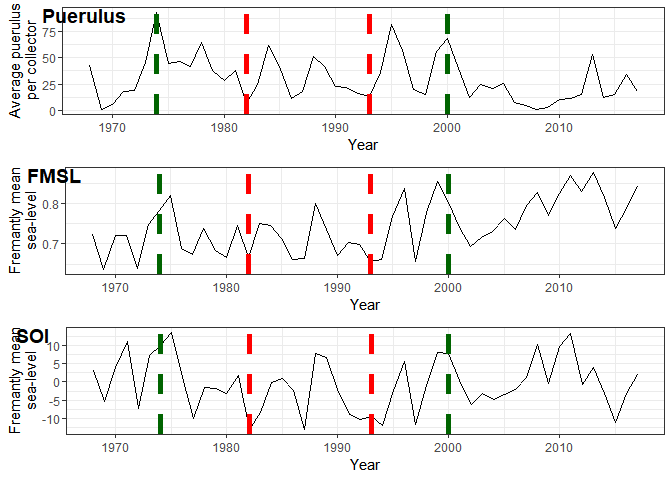
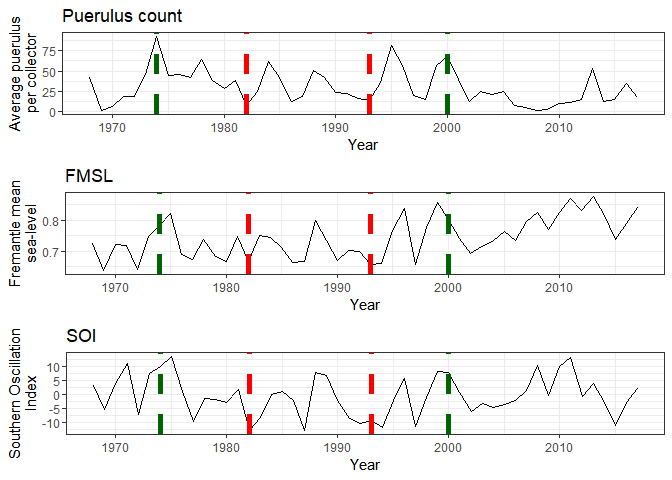
update

diff --git a/Puerulus-settlement.md b/Puerulus-settlement.md
@@ -1,18 +1,17 @@
-Oceeanographic drivers of lobster Puerulus settlement
+Oceanographic drivers of Western Rock Lobster puerulus settlement
 ================
 Tim Langlois and Matt Navarro
 14/04/2020
 
 In this exercise we are going to explore how oceanography drives
-recruitment of Western rock lobster.
+recruitment of Western Rock Lobster.
 
-Before we being lets load the packages we will be using today, and
-download our data:
+Before we being lets load the packages we will use today.
 
 ``` r
-library(RCurl)
-library(ggplot2)
-library(cowplot)
+library(RCurl) # to read data from GitHub
+library(ggplot2) #to plot data
+library(cowplot) #to create multiplots
 ```
 
     ## 
@@ -28,8 +27,18 @@ library(cowplot)
     ## ********************************************************
 
 ``` r
-library(magrittr)
-library(dplyr)
+library(tidyr) #to tidy data
+```
+
+    ## 
+    ## Attaching package: 'tidyr'
+
+    ## The following object is masked from 'package:RCurl':
+    ## 
+    ##     complete
+
+``` r
+library(dplyr) #to plot data
 ```
 
     ## 
@@ -43,23 +52,29 @@ library(dplyr)
     ## 
     ##     intersect, setdiff, setequal, union
 
+From the lecture you will recall that after spawning, Western Rock
+Lobster larvae (called phyllosoma) are carried by currents between 400
+and 1,500 km offshore. After a while the larvae metamorphose into
+transparent mini lobster known as pueruli. The puerulus then swim back
+to the coastline and settle onto shallow reefs.
+
+Today we will be playing with data from puerulus collectors. These
+collectors are placed in the ocean at eigth key locations and capture
+puerulus as they are swimming back towards the shallow reefs.
+
+</br>
+
+![*Collector*](figures/collector.png)
+
+</br>
+
+### Data description
+
+Lets have a quick look at our data.
+
 ``` r
 dat <- read.csv(text=getURL("https://raw.githubusercontent.com/UWA-SCIE2204-Marine-Systems/Biological-oceanography/master/Data/Data_for_puerulus.csv"))
 dat<-dat[1:50,]  #removes NA column
-```
-
-From the lecture you will recall that after spawning, lobster larvae
-(called phyllosoma) are carried by currents between 400 and 1,500 km
-offshore. After several months the larvae metamorphose into transparent
-mini lobster known as Pueruli (plural is puerulus). The Puerulus then
-swim back to the coastline and settle onto shallow reefs.
-
-Today we will be playing with data from Puerulus collectors. These
-collectors are placed in the ocean at eigth key locations and capture
-puerulus as they are swim back towards the shallow reefs. Lets have a
-quick look at our data.
-
-``` r
 head(dat)
 ```
 
@@ -71,39 +86,37 @@ head(dat)
     ## 5 1972 18.468601 0.6390000 -7.350000
     ## 6 1973 45.085088 0.7482857  7.283333
 
-The Puerulus column is the average annual number of puerulus captured in
-the collectors. This has been shown to be a reliable indicator of
-recruitment, and has been linked strongly to the expected cath in 4
-years time.
+The puerulus column is the average annual number of puerulus captured in
+the collectors. This is a reliable indicator of recruitment, and has
+been linked strongly to the expected catch in 4 years time.
 
 Given the extended period of time that lobster larvae and pueruli spend
-offshore, we would expect that the number of settling peruli would
+offshore, we would expect that the number of settling puerulus would
 depend on the oceanographic conditions in a given year. Across the WA
 coastline, the Southern flowing Leeuwin current is the dominating
-process. To explore how the Leeuwin current affects Puerulus counts we
-have two proxies for the Leeuwin current strength.
+process. To explore how the Leeuwin current affects puerulus counts we
+have two proxies for the Leeuwin current strength:
 
-FMSL is the Fremantle mean sea level. As the Leeuwin current pushes warm
-water down the WA coast, it actually increases the sea-level off
-Fremantle. In years with a strong Leeuwin current the sea-level is
-higher.
+  - FMSL is the Fremantle mean sea level. As the Leeuwin current pushes
+    warm water down the WA coast it actually increases the sea-level off
+    Fremantle. In years with a strong Leeuwin current the sea-level is
+    higher.
+  - SOI is the Southern Oscilattion Index. Technically the SOI is the
+    difference in the surface air pressure between Tahiti and Darwin.
+    All you need to know is that when the SOI is higher, the Leeuwin
+    current is stronger.
 
-SOI is the Southern Oscilattion Index. Technically the SOI is the
-difference in the surface air pressure between Tahiti and Darwin. All
-you need to know is that when the SOI is higher, the Leeuwin current is
-stronger.
+### Plot puerulus counts
 
-## Plot puerulus counts and Leeuwin current proxies
-
-Make a time series plot of Puerulus counts. Note that we are using the
-ggplot functions we used in the Marine Reserves lab. We are also saving
-the plot inside R as “puerulus\_plot” as we will use this plot again in
-a minute.
+Make a time series plot of puerulus counts. Note that we are using the
+ggplot functions we used in the marine reserves lab. We are also saving
+the plot inside R as “puerulus\_plot” as we will use this plot again.
 
 ``` r
 puerulus_plot<-ggplot(dat, aes(x = Year, y = Puerulus))+ 
   geom_line()+
   ylab("Average puerulus\nper collector")+
+  ggtitle("Puerulus count")+
   theme_bw()
 
 puerulus_plot
@@ -115,6 +128,8 @@ Notice how the data puerulus counts go up and down. There is actually a
 lot of variability. On high years puerulus counts can be as high as 90,
 whilst in low years it can be less than 1.
 
+### Create a composite plot
+
 Lets now try and create a composite plot. A composite plot combines
 several plots and is an easy way to start to explore relationships in
 your data. To do this we are going to make three individual plots using
@@ -124,17 +139,19 @@ next section of code we create a FMSL plot and a SOI index plot and then
 create the multi-plot using plot\_grid.
 
 ``` r
-fmsl_plot<- ggplot(dat, aes(x = Year, y = FMSL))+ 
+fmsl_plot<- ggplot(dat, aes(x = Year, y = FMSL))+ #create the fmsl plot
   geom_line()+
-  ylab("Fremantly mean\nsea-level")+
+  ylab("Fremantle mean\nsea-level")+
+  ggtitle("FMSL")+
   theme_bw()
 
-soi_plot<-ggplot(dat, aes(x = Year, y = SOI))+ 
+soi_plot<-ggplot(dat, aes(x = Year, y = SOI))+ #create the soi plot
   geom_line()+
-  ylab("Fremantly mean\nsea-level")+
+  ylab("Southern Oscillation\nIndex")+
+  ggtitle("SOI")+
   theme_bw()
 
-multi_plot<-plot_grid(puerulus_plot, fmsl_plot, soi_plot, ncol = 1, labels = c("Puerulus", "FMSL", "SOI"))
+multi_plot<-plot_grid(puerulus_plot, fmsl_plot, soi_plot, ncol = 1) #create the composite plot
 multi_plot
 ```
 
@@ -143,13 +160,13 @@ multi_plot
 Have a close look…can you see anything interesting in the patterns you
 see across the 3 variables? ……
 
-…..In general it seems that when fmsl and soi are higher, the Puerulus
+…..In general it seems that when fmsl and soi are higher, the puerulus
 count is higher. In other words in years with a strong Leeuwin current
-more Puerulus settle on to shallow reefs.
+more puerulus settle onto shallow reefs.
 
 To make the pattern more obvious we can add some vertical lines to our
 plots. We will use green to indicate years with abnormally high puerulus
-counts, and red to indicate years with abnormally low Puerulus counts.
+counts, and red to indicate years with abnormally low puerulus counts.
 
 ``` r
 multi_plot<-plot_grid(puerulus_plot + 
@@ -164,19 +181,22 @@ multi_plot<-plot_grid(puerulus_plot +
                       geom_vline(xintercept = c(1974, 2000), color = "darkgreen", linetype="dashed", size = 2)+
                       geom_vline(xintercept = c(1982, 1993), color = "red", linetype="dashed", size = 2),
                       
-                      ncol = 1, labels = c("Puerulus", "FMSL", "SOI"))
+                      ncol = 1)
 multi_plot
 ```
 
 ![](Puerulus-settlement_files/figure-gfm/unnamed-chunk-5-1.png)<!-- -->
 
-Can you see the pattern now? That is quite interesting right? You now
-have some evidence that recruitment for the western rock lobster is
-linked to the strength of the Leeuwin current. If you are a manager of a
-lobster fishery this might be bad news…you have no ability to control
-how strong the Leeuwin current is. This limits your ability to manage
-the fishery, and suggests you need to incorporate the strength of the
-Leeuwin current into your management decisions.
+Can you see the pattern now? That is quite interesting right?
+
+You now have some evidence that recruitment for the western rock lobster
+is linked to the strength of the Leeuwin current. If you are a manager
+of a lobster fishery this might be bad news…you have no ability to
+control how strong the Leeuwin current is. This limits your ability to
+manage the fishery, and suggests you need to incorporate the strength of
+the Leeuwin current into your management decisions.
+
+### Calculate correlation coefficients
 
 Lets dig a little deeper.
 
@@ -184,28 +204,31 @@ The cor function returns the correlation coefficient between two
 variables.
 
 ``` r
-cor(dat$Puerulus, dat$FMSL)
+cor(dat$Puerulus, dat$FMSL) #Check FMSL correlation coefficient
 ```
 
     ## [1] 0.2260079
 
 ``` r
-cor(dat$Puerulus, dat$SOI)
+cor(dat$Puerulus, dat$SOI) #Check SOI correlation coefficient
 ```
 
     ## [1] 0.3155193
 
-The correlation coefficients are positive between Puerulus and FMSL and
-Puerulus and SOI. This confirms what we obsrerved in the multiplot -
-when the FMSL and SOI are higher Puerulus counts are higher.
+The correlation coefficients are positive between puerulus and FMSL and
+puerulus and SOI. This confirms what we obsrerved in the multiplot -
+when the FMSL and SOI are higher puerulus counts are higher.
 
-But, the correlation coefficients are not huge. Between Puerulus and
-FMSL we get 0.23 and between Puerulus and SOI we get 0.32. For a high
+But, the correlation coefficients are not huge. Between puerulus and
+FMSL we get 0.23 and between puerulus and SOI we get 0.32. For a high
 degree of correlation we would expect something more than 0.5.
 
 So what else might be going on?
 
-To investigate lets take another look at our multiplot
+\#\#\#Investigating relatively low correlations
+
+To investigate why we are getting relatively low correlation
+coefficients lets take another look at our multiplot
 
 ``` r
 multi_plot
@@ -215,15 +238,12 @@ multi_plot
 
 Have a closer look at the relationship in recent years, since 2005.
 
-There seems to be something weird going on…from 2007 until 2014 Puerulus
-counts were low, but FMSL and SOI were both high. For some reason,
+There seems to be something weird going on…from 2007 until 2014 puerulus
+counts were low, but FMSL and SOI were both high.
 
-However, in recent years (2007-2014) Puerulus counts were quite low
-despite FMSL and SOI being high. This is a bit confusing.
-
-A good way to visualise how this relationship has changed is to create a
-colour coded dot-plot between Puerulus and our proxies for the Leeuwin
-current strenght.
+A good way to visualise how the relatinoship between puerulus counts and
+our Leeuwin current proxies has changed since 2007 is to create a colour
+coded dot-plot.
 
 To do this we will use the mutate and ifelse to create a new variable in
 our data called “pre\_post2007” indicating if the data point is before
@@ -234,6 +254,8 @@ they are before or after 2007.
 ``` r
 dat %>% mutate(pre_post2007 = ifelse(Year >= 2007, "Post 2007", "Pre 2007" )) %>%
 ggplot(., aes(x = Puerulus, y = FMSL, color = pre_post2007))+ 
+  ylab("Fremantle mean sea-level")+ 
+  xlab("Average puerulus per collector")+
   geom_point()+
   theme_bw()
 ```
@@ -241,30 +263,32 @@ ggplot(., aes(x = Puerulus, y = FMSL, color = pre_post2007))+
 ![](Puerulus-settlement_files/figure-gfm/unnamed-chunk-8-1.png)<!-- -->
 
 You can see that all of the data points since 2007 are clustered in the
-top left-hand-side corner: they have low Puerulus counts but high FMSL.
+top left-hand-side corner: they have low puerulus counts but high FMSL.
 
 We can also explore correlation coefficients for just the data before
 2007
 
 ``` r
-dat_pre2007<-dat %>% subset(Year < 2007)
+dat_pre2007<-dat %>% subset(Year < 2007) #subset data to pre 2007
 
-cor(dat_pre2007$Puerulus, dat_pre2007$FMSL)
+cor(dat_pre2007$Puerulus, dat_pre2007$FMSL) #Check FMSL correlation coefficient
 ```
 
     ## [1] 0.6044675
 
 ``` r
-cor(dat_pre2007$Puerulus, dat_pre2007$SOI)
+cor(dat_pre2007$Puerulus, dat_pre2007$SOI) #Check SOI correlation coefficient
 ```
 
     ## [1] 0.5263896
 
-We can see that pre-2007 we get strong correlations between Puerulus
-count and FMSL and Puerulus count and SOI.
+We can see that pre-2007 we get strong correlations between puerulus
+count and FMSL and puerulus count and SOI.
 
-\#\#The mysery So why has the relationship between the Leeuwin current
-strength and Puerulus counts broken down in recent years?
+### What has changed?
+
+So why has the relationship between the Leeuwin current strength and
+puerulus counts broken down in recent years?
 
 The truth is that nobody knows, but people are looking into it. We have
 a PhD student here at UWA who is working with Department of Fiseries to
